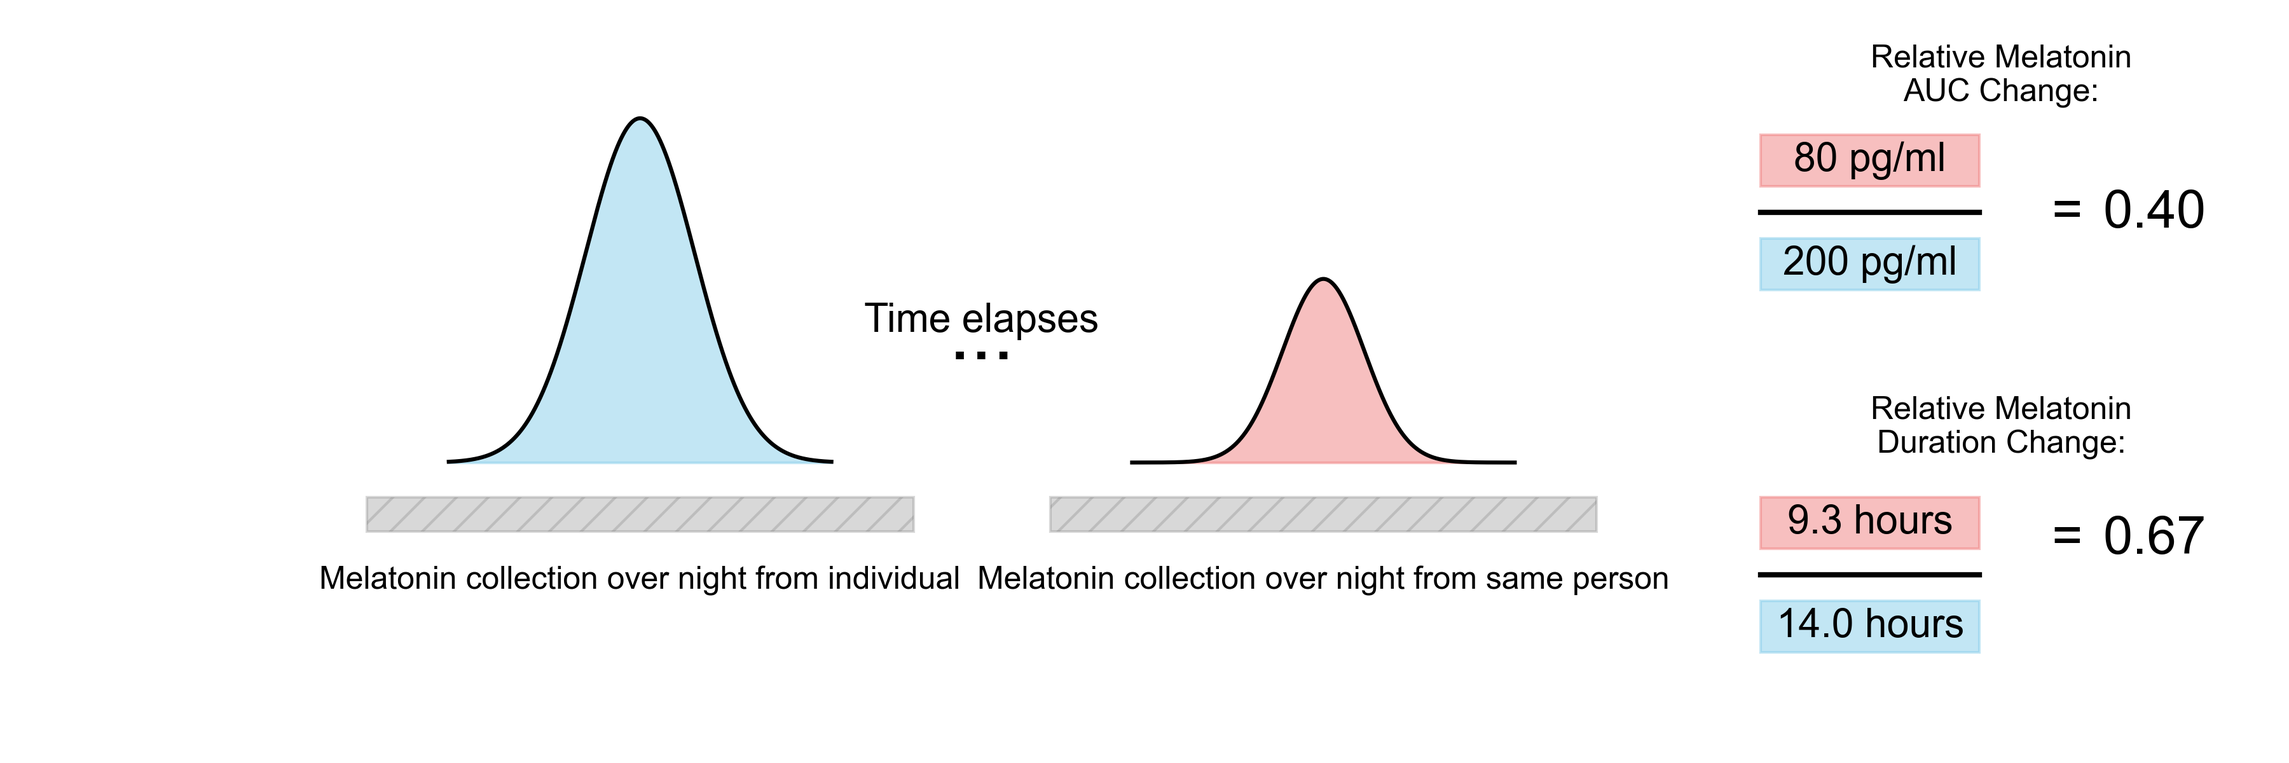
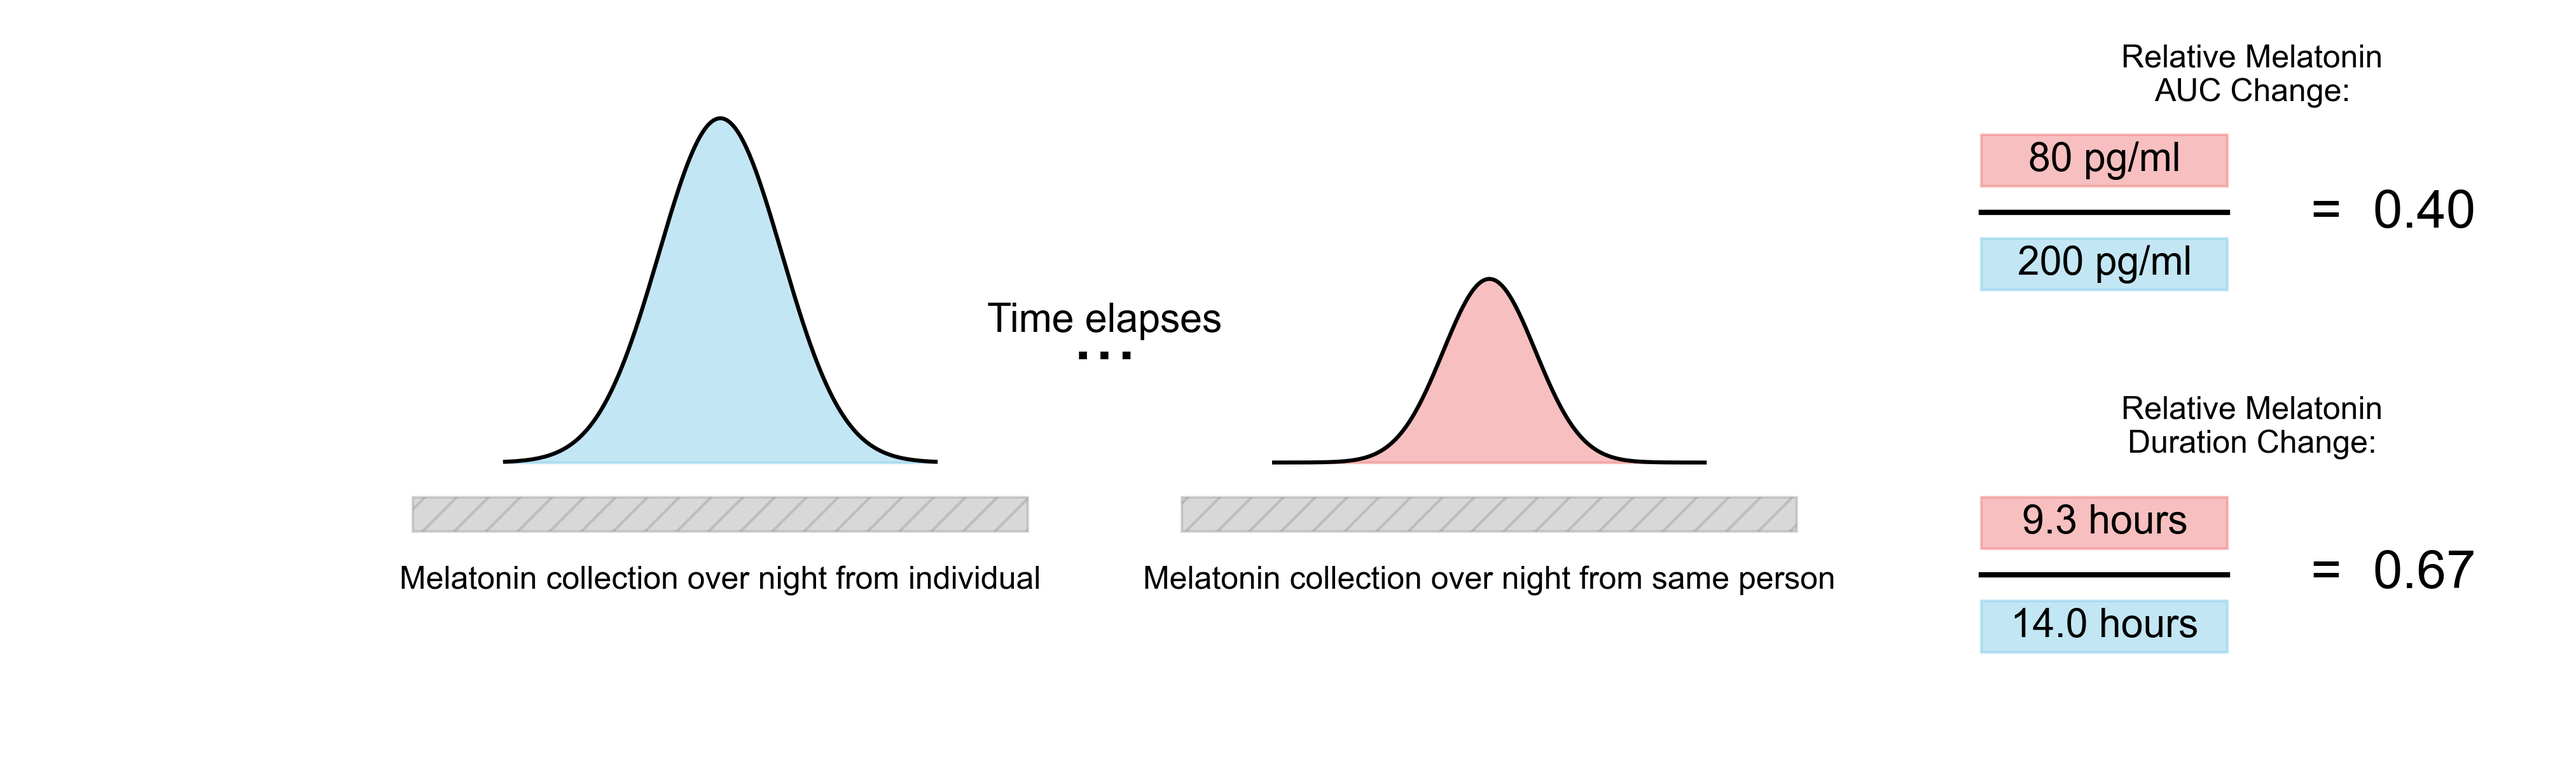
Fix mel figure

diff --git a/make_melatonin_figure.py b/make_melatonin_figure.py
@@ -11,7 +11,7 @@ def gaussian(x, mu, sigma):
 if __name__ == '__main__':
     matplotlib.rcParams['font.family'] = 'Arial'
 
-    fig, ax = plt.subplots(figsize=(12, 4))
+    fig, ax = plt.subplots(figsize=(13.5, 4))
 
     first_position = -4
     offset = 25
@@ -91,8 +91,8 @@ if __name__ == '__main__':
 
     y_pos = -0.05
     ax.text(rightmost_x + 0.9 * rectangle_width, y_pos *
-            0.9, "=", fontsize=20, ha='center', va='center')
-    ax.text(rightmost_x + 1.3 * rectangle_width, y_pos * 0.9,
+            1.3, "=", fontsize=20, ha='center', va='center')
+    ax.text(rightmost_x + 1.3 * rectangle_width, y_pos * 1.3,
             f"{(duration_y2/duration_y1):.2f}", fontsize=20, ha='center', va='center')
     ax.text(rightmost_x + 0.6 * rectangle_width, 0.02, "Relative Melatonin\nDuration Change:", fontsize=12, ha='center',
             va='center')
